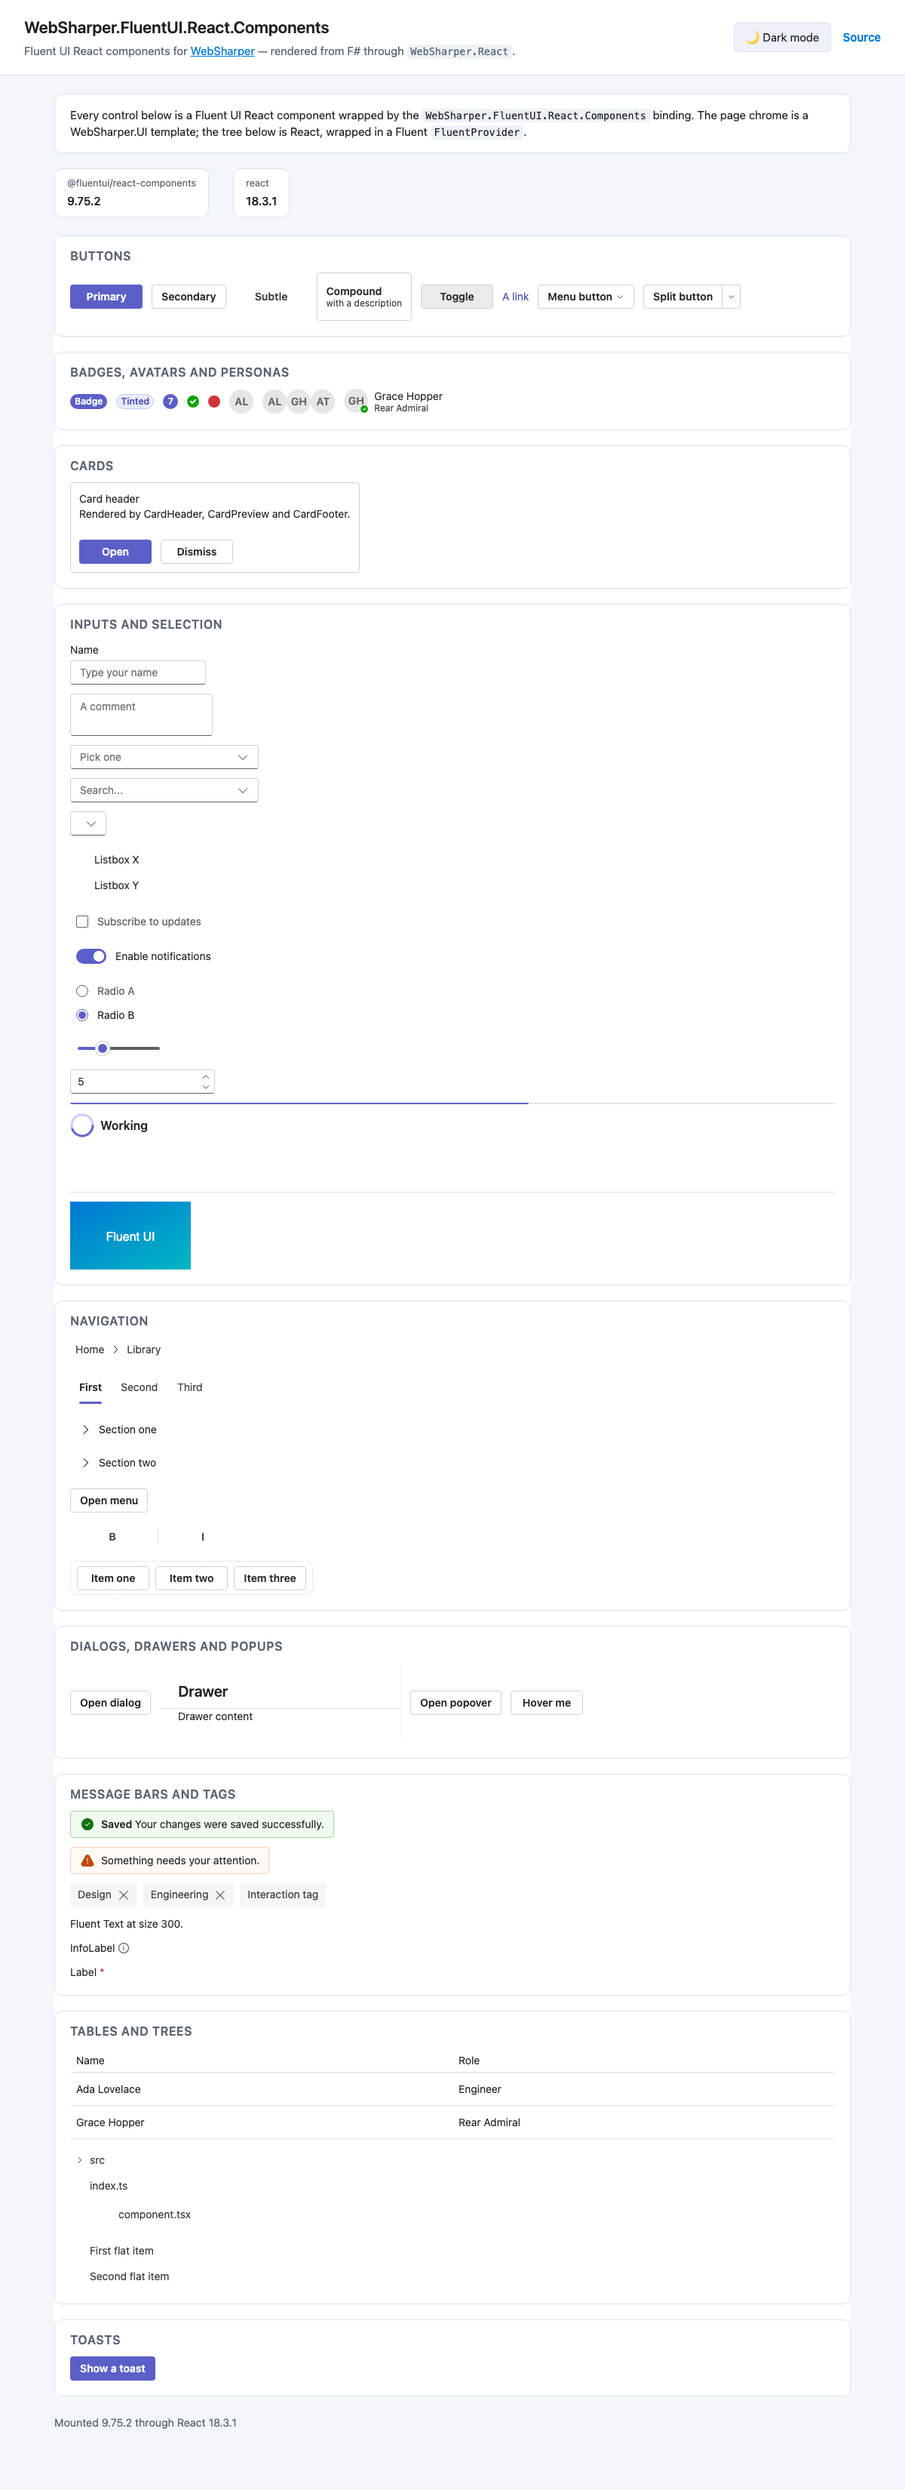
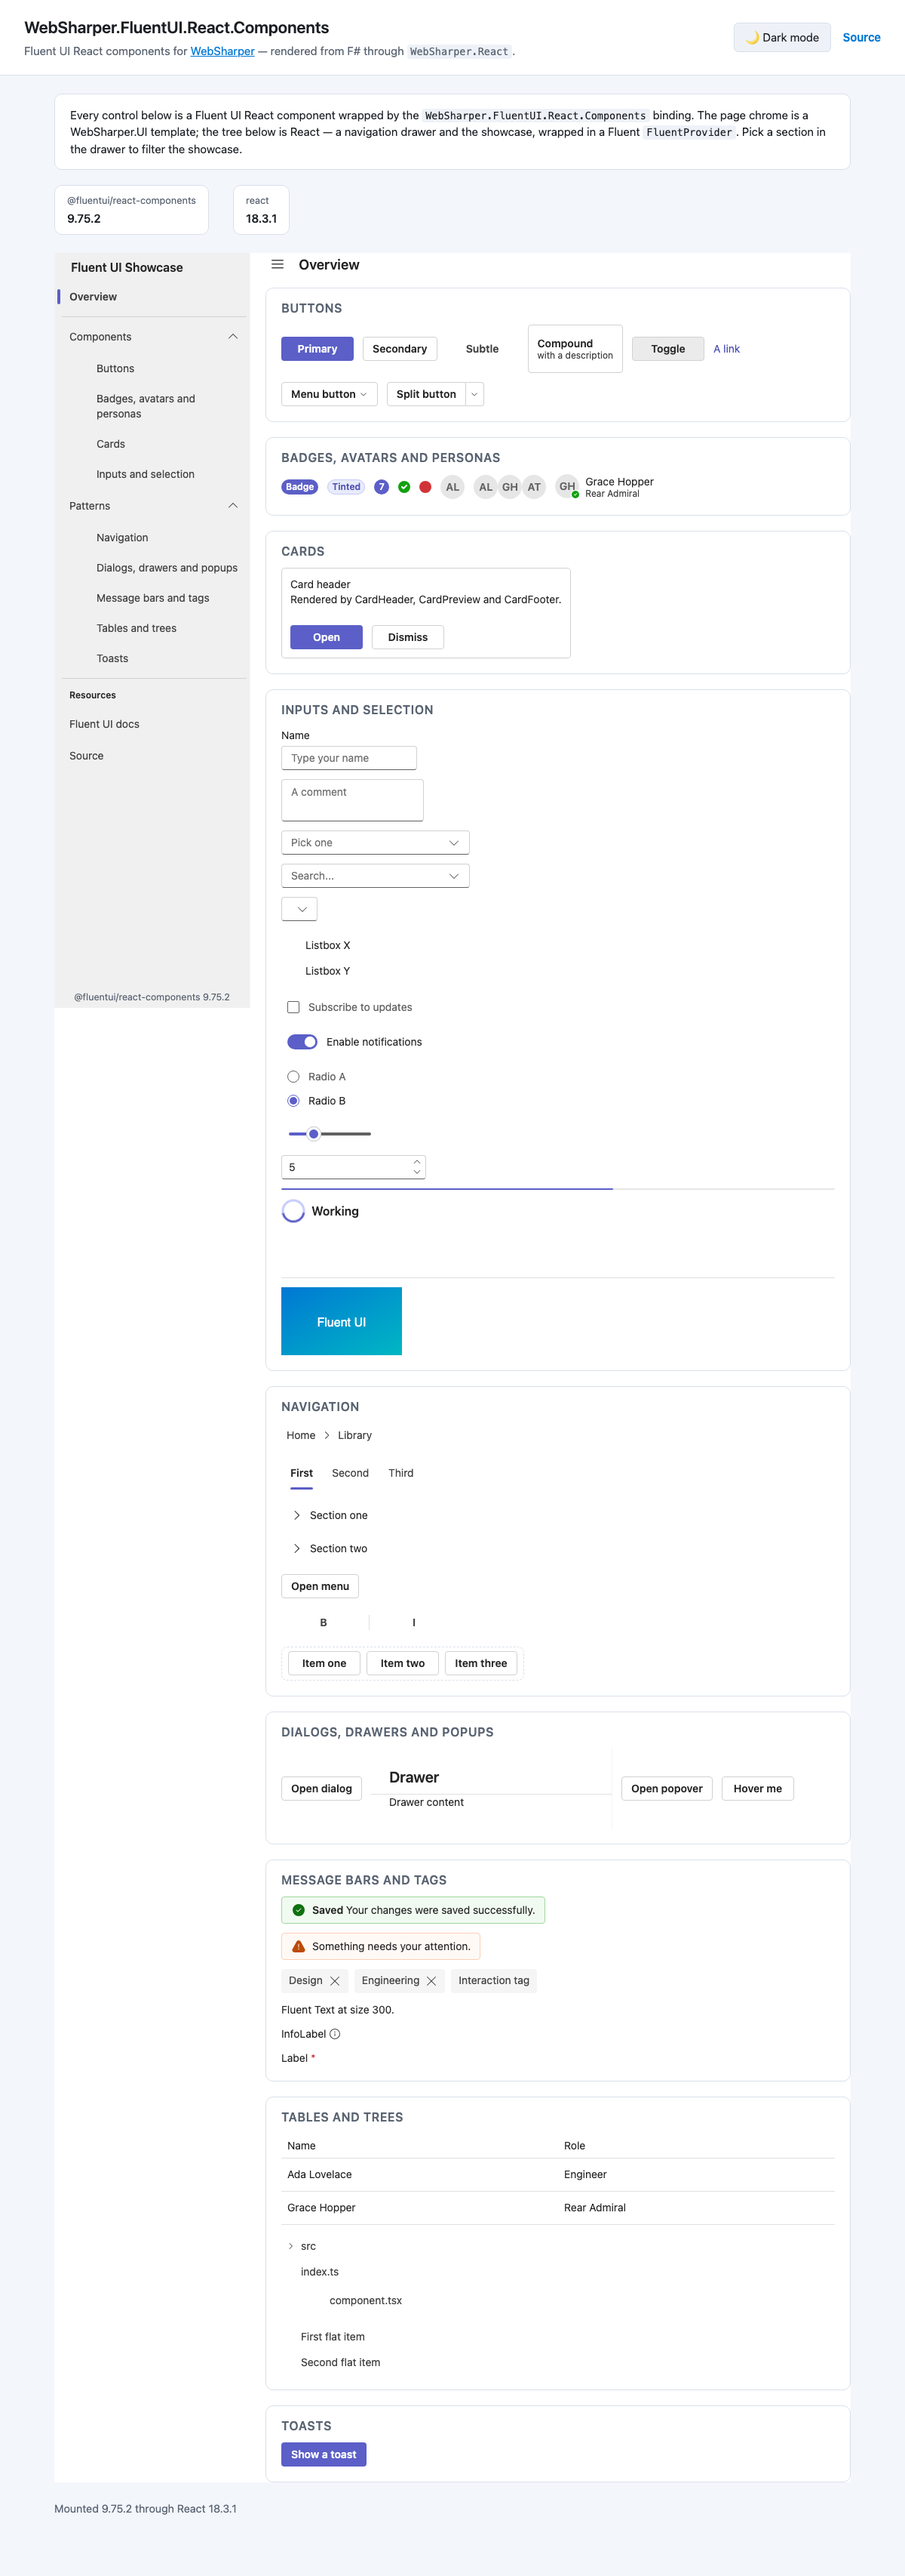
Add a Fluent navigation drawer to the sample; bind the Nav components
The showcase was one long scrolling page. Give the sample a real navigation:
a Fluent `NavDrawer` rail with an `Overview` item plus collapsible `Components`
and `Patterns` categories (`NavCategory`/`NavCategoryItem`/`NavSubItemGroup`/
`NavSubItem`), a `Resources` group (`NavSectionHeader` + link `NavItem`s), and a
`Hamburger` in the content toolbar that collapses the rail. The selected
section filters the showcase and the current section is named in the toolbar.

To support this the binding gains the Nav family: Nav, NavItem, NavCategory,
NavCategoryItem, NavSubItem, NavSubItemGroup, NavDivider, NavSectionHeader,
NavDrawer, NavDrawerBody, NavDrawerHeader, NavDrawerFooter, SplitNavItem,
Hamburger, AppItem and AppItemStatic (imports plus `Helpers` wrappers).

The sample renders its sections as function components (`Helpers.ofFunction`)
so their hooks stay scoped to the component; that makes mounting and
unmounting them as the selection changes legal. The navigation uses Fluent's
uncontrolled `defaultSelectedValue` / `defaultOpenCategories`, so no two-argument
callbacks are needed: each item's one-argument `onClick` drives the selection
and the drawer keeps its own selection/category state.

Verified in Chrome: the rail renders (260px), items filter the showcase
(`Inputs and selection` -> one section, `Overview` -> all nine), a category
toggles (`aria-expanded` flips), the Hamburger collapses and reopens the rail,
[…]

diff --git a/WebSharper.React.FluentUI.Components.Sample/site.css b/WebSharper.React.FluentUI.Components.Sample/site.css
@@ -149,6 +149,69 @@ code {
     display: block;
 }
 
+/* App shell: navigation drawer on the left, showcase on the right. */
+.app-shell {
+    display: flex;
+    align-items: stretch;
+    gap: 1.25rem;
+    min-height: 60vh;
+}
+
+.app-main {
+    flex: 1 1 auto;
+    min-width: 0;
+}
+
+/* Keep the navigation rail at its Fluent size instead of letting the flex
+   layout shrink it to a sliver when the showcase is wide, and keep it in view
+   while scrolling the long showcase. */
+.app-nav {
+    flex: 0 0 auto;
+}
+
+.app-shell > .app-nav {
+    position: sticky;
+    top: 0;
+}
+
+.app-nav-body {
+    flex: 1 1 auto;
+    min-height: 0;
+}
+
+.app-toolbar {
+    display: flex;
+    align-items: center;
+    gap: 0.75rem;
+    margin-bottom: 1rem;
+}
+
+.app-title {
+    margin: 0;
+    font-size: 1.15rem;
+    font-weight: 600;
+}
+
+.nav-brand {
+    font-size: 1rem;
+    font-weight: 600;
+    padding: 0.25rem 0.5rem;
+    white-space: nowrap;
+}
+
+.nav-footer {
+    color: var(--text-muted);
+    font-size: 0.78rem;
+    padding: 0.25rem 0.5rem;
+    white-space: nowrap;
+}
+
+@media (max-width: 760px) {
+    .app-shell {
+        flex-direction: column;
+    }
+}
+
 .status {
     margin-top: 1.5rem;
     color: var(--text-muted);

diff --git a/WebSharper.React.FluentUI.Components.Sample/index.html b/WebSharper.React.FluentUI.Components.Sample/index.html
@@ -38,7 +38,8 @@
         <p class="notice">
             Every control below is a Fluent UI React component wrapped by the
             <code>WebSharper.FluentUI.React.Components</code> binding. The page chrome is a WebSharper.UI
-            template; the tree below is React, wrapped in a Fluent <code>FluentProvider</code>.
+            template; the tree below is React — a navigation drawer and the showcase, wrapped in a Fluent
+            <code>FluentProvider</code>. Pick a section in the drawer to filter the showcase.
         </p>
 
         <section class="readout">

diff --git a/README.md b/README.md
@@ -23,12 +23,15 @@ This repository contains:
 
 ![Fluent UI React components sample](docs/sample.png)
 
-The sample doubles as the binding's [test case](#running-the-test-case): it renders a Fluent
-`FluentProvider` whose theme follows the light/dark switcher, and exercises buttons, badges,
-avatars, personas, cards, fields, inputs, dropdowns, comboboxes, selects, listboxes, checkboxes,
-switches, radios, sliders, spin buttons, progress bars, spinners, skeletons, images, breadcrumbs,
-tabs, accordions, menus, toolbars, overflow, dialogs, drawers, popovers, tooltips, message bars,
-tags, interaction tags, tables, trees, flat trees and toasts.
+The sample doubles as the binding's [test case](#running-the-test-case): the page is a WebSharper.UI
+template hosting a Fluent UI React app — a **navigation drawer** (a `NavDrawer` with collapsible
+`NavCategory` groups, `NavItem`s, `NavSectionHeader`s and a `Hamburger` that collapses the rail) plus
+a showcase filtered by the selected section. The `FluentProvider` theme follows the light/dark
+switcher, and the showcase exercises buttons, badges, avatars, personas, cards, fields, inputs,
+dropdowns, comboboxes, selects, listboxes, checkboxes, switches, radios, sliders, spin buttons,
+progress bars, spinners, skeletons, images, breadcrumbs, tabs, accordions, menus, toolbars, overflow,
+dialogs, drawers, popovers, tooltips, message bars, tags, interaction tags, tables, trees, flat trees
+and toasts.
 
 - **Sample (this repository):** <https://dotnet-websharper.github.io/fluentui-react-components/>
 - **Source repository:** <https://github.com/dotnet-websharper/fluentui-react-components>
@@ -81,6 +84,29 @@ A few helpers take only the props and render no children (`badge`, `avatar`, `im
 `persona`, `progressBar`, `radio`, `slider`, `spinButton`, `spinner`, `switch`, `Toast.toaster`) —
 pass their content through a `"children"` prop.
 
+A navigation rail is a `navDrawer`; it provides the nav context, so the items go straight into its
+body:
+
+```fsharp
+F.navDrawer
+    [ prop "open" true
+      prop "type" "inline"
+      prop "separator" true
+      prop "defaultSelectedValue" "overview"
+      prop "defaultOpenCategories" (box [| "components" |]) ]
+    [ F.NavDrawer.header [] [ Html.text "Showcase" ]
+      F.NavDrawer.body [] [
+          F.navItem [ prop "value" "overview" ] [ Html.text "Overview" ]
+          F.navDivider [] []
+          F.navCategory [ prop "value" "components" ] [
+              F.navCategoryItem [] [ Html.text "Components" ]
+              F.navSubItemGroup [] [
+                  F.navSubItem [ prop "value" "buttons" ] [ Html.text "Buttons" ]
+              ]
+          ]
+      ] ]
+```
+
 ## Notes on the API
 
 - **Props are string-keyed.** The element helpers (`F.button`, `F.card`, …) take a
@@ -90,14 +116,20 @@ pass their content through a `"children"` prop.
   `F.Popover.popoverTrigger` and `F.tooltip` clone their only child, so pass exactly one element
   (for example one `F.button`), not a list of several.
 - **`F.overflow` takes one child element** that wraps the `F.overflowItem`s.
+- **Navigation.** `F.navDrawer` is the navigation root — it accepts the `Nav` selection and
+  category props (`defaultSelectedValue`, `defaultOpenCategories`, `selectedValue`,
+  `onNavItemSelect`, …) as well as the `Drawer` props (`open`, `type`, `separator`), and provides the
+  nav context, so `F.navItem` / `F.navCategory` / `F.navSubItem` can be placed directly in
+  `F.NavDrawer.body`. `F.navDivider` and `F.navSectionHeader` group the items. Use `F.nav` when you
+  want a plain (non-drawer) nav container.
 - **Theming.** Use `Themes.teamsLightTheme` / `Themes.teamsDarkTheme`, or the larger
   `Styling.Themes` surface (`webLightTheme`, `webDarkTheme`, `teamsHighContrastTheme`, …), as the
   `theme` prop of `F.fluentProvider`.
 - **Types.** Shared option/result shapes (the `*Data`/`*Options` dictionaries, controllers, and the
   `WebSharper.React.FluentUI.Types` helpers) mirror the upstream TypeScript definitions.
 - **Coverage.** The binding covers the components listed above. Newer Fluent UI surfaces — `List`,
-  `Nav`/`NavDrawer`, `SearchBox`, `Rating`, `TagPicker`, `Carousel`, `ColorPicker`, `TeachingPopover`
-  and the `DataGrid` body render-prop — are not bound yet.
+  `SearchBox`, `Rating`, `TagPicker`, `Carousel`, `ColorPicker`, `TeachingPopover` and the
+  `DataGrid` body render-prop — are not bound yet.
 - **React version.** The sample pins React 18 (`react` / `react-dom` `^18.3.1`), because the
   released `WebSharper.React` still mounts through `ReactDOM.render`, which React 19 removed.
   `@fluentui/react-components` 9.x itself supports React `>=16.14 <20`.
